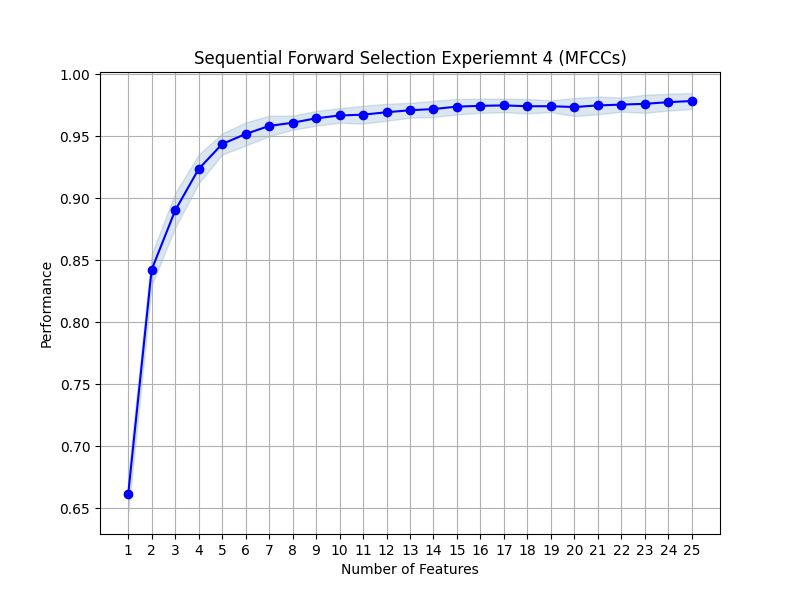
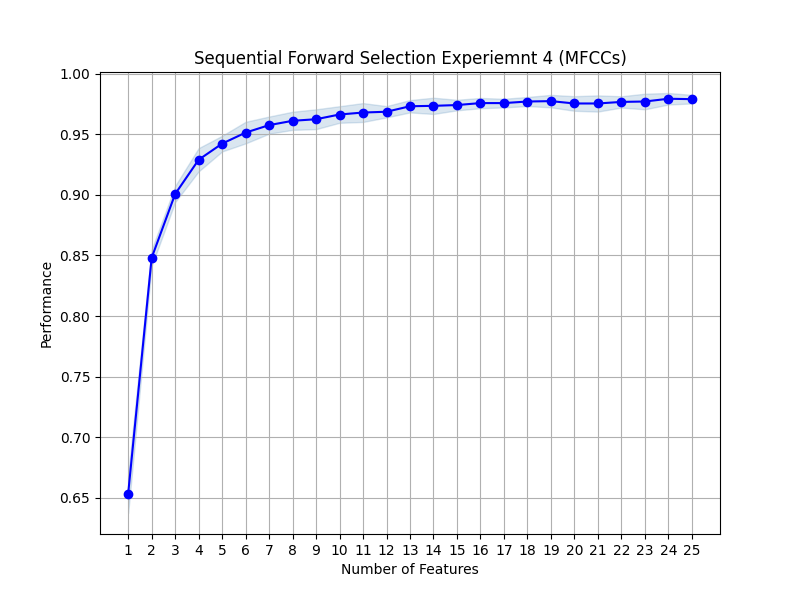
hello from cloudflare

diff --git a/make_dict.py b/make_dict.py
@@ -1,0 +1,30 @@
+import pandas as pd
+
+'mean_bandwidth': ([3138.20695765]),
+ 'mean_centroid': ([3296.77333343]),
+ 'mean_flatness': ([0.05204113]),
+ 'mean_ioi': ([0.6640907]),
+ 'mean_mfcc': ([-291.71202245,   40.16217534,   41.10678984,   25.4730596 ,
+          8.4089992 ,   12.32404358,    1.75544578,    9.45137945,
+         11.39893421,   17.10759748,   13.89246443,   15.44219256,
+          9.32216839]),
+ 'mean_onset': ([1.95870965]),
+ 'mean_rolloff': ([7175.97105875]),
+ 'mean_zcr': ([0.15200788]),
+ 'std_bandwidth': ([355.05479358]),
+ 'std_centroid': ([1487.39287899]),
+ 'std_flatness': ([0.07518581]),
+ 'std_ioi': ([0.01137541]),
+ 'std_mfcc': ([84.46219929, 34.2960946 , 11.56306835, 12.50023466, 13.38570309,
+       13.44962418,  8.85633439,  6.80111643, 11.30705599,  9.29555882,
+        8.6563477 ,  9.52431752,  8.26442198]),
+ 'std_onset': ([2.96298111]),
+ 'std_rolloff': ([1879.41810347]),
+ 'std_zcr': ([0.14933016]),
+ 'tempo': ([89.10290948])
+
+# Convert the dictionary to a DataFrame
+df = pd.DataFrame.from_dict(x)
+
+# Save the DataFrame to a CSV file
+df.to_csv('output.csv', index=False)

diff --git a/model.py b/model.py
@@ -493,9 +493,9 @@ def SVM(experiment_number=1):
         fig1 = plot_sfs(experiment_1.get_metric_dict(), kind="std_dev")
 
         # plt.ylim([0.8, 1])
-        plt.title("Sequential Forward Selection Experiemnt 1 (time domain features)")
-        plt.grid()
-        plt.savefig("plots/metrics/experiment_1/SFS_experiment_1.png")
+        # plt.title("Sequential Forward Selection Experiemnt 1 (time domain features)")
+        # plt.grid()
+        # plt.savefig("plots/metrics/experiment_1/SFS_experiment_1.png")
 
         # compute metrics for Experiment 1
         compute_metrics_and_plot(
@@ -720,7 +720,7 @@ def SVM(experiment_number=1):
 if __name__ == "__main__":
 
     # linear_SVM()
-    SVM(experiment_number=5)
+    SVM(experiment_number=4)
     # RBF_SVM()
 
     # random_forest_classifier()

diff --git a/train_mlp.py b/train_mlp.py
@@ -106,6 +106,7 @@ def evaluate(
     # print(f"Precision: {precision:.4f}")
 
     test_metrics = [accuracy, f1, recall, precision]
+    print(test_metrics)
     metric_names = ["Accuracy", "Precision", "Recall", "F1-score"]
     plot_metrics(
         test_metrics=test_metrics,

diff --git a/extract_features.py b/extract_features.py
@@ -188,6 +188,8 @@ def extract_features(file_path):
             "std_mfcc": np.std(mfcc, axis=1),
         }
     
+    pprint(aggregated_features)
+    
 
     feature_vector = np.concatenate(
         [
